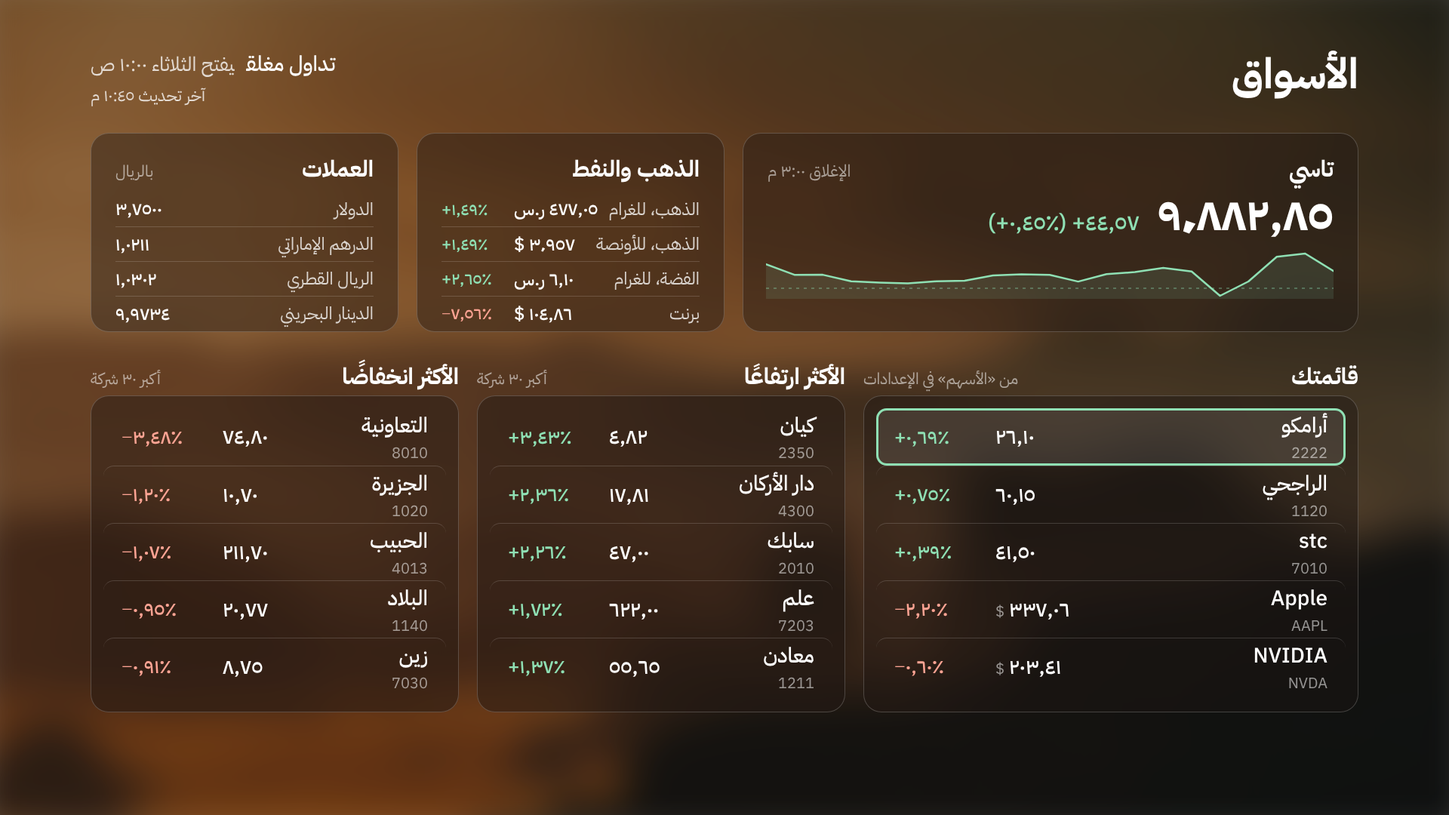
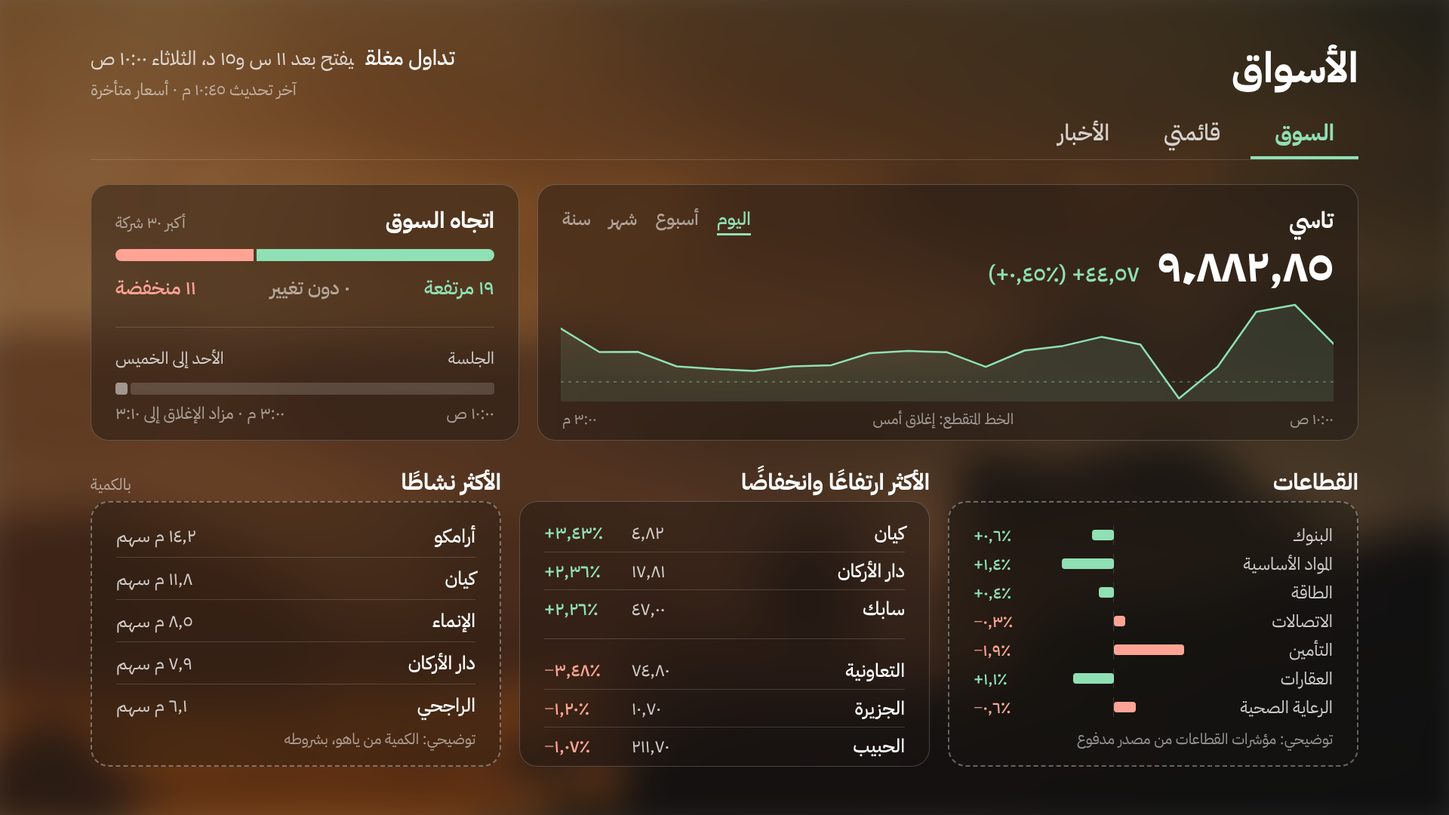
Proposals: markets page in three tabs (market, watchlist, news) with charts and the usual extras; what is free, cheap or paid

diff --git a/notes/proposals/proto.html b/notes/proposals/proto.html
@@ -451,5 +451,91 @@ const MKD=(T,light)=>{const q=MK['2222.SR'],c=chg(q);const lo=Math.min(...q.c),h
 S.mkdark=()=>MKP(false,0);
 S.mkdet=()=>MKP(false,1);
 S.mklight=()=>MKP(true,0);
+
+// ---- «الأسواق», three tabs (the owner: charts, news, the usual extras). Real numbers: data-markets of 2 Nov 2026.
+// A card drawn with a dashed border needs a source we do not have (paid, or not yet fetched); its numbers are illustrative.
+const MK2={"^TASI.SR": {"p": 9882.85, "v": 9838.28, "c": [9870.04, 9902.6104, 9896.7305, 9850.8398, 9824.29, 9869.4102, 9875.8496, 9868.2197, 9864.3896, 9850.6797, 9862.9697, 9864.0498, 9862.1797, 9852.1299, 9851.1602, 9847.3701, 9848.8496, 9851.1602, 9863.2598, 9863.1201, 9882.8496], "t": "2026-11-02T19:45:16+00:00"}, "2222.SR": {"p": 26.1, "v": 25.92, "c": [25.96, 25.96, 26.04, 25.98, 25.94, 25.94, 25.98, 26.0, 26.0, 26.0, 25.98, 26.0, 26.0, 26.02, 26.04, 26.08, 26.08, 26.04, 26.08, 26.06, 26.1], "t": "2026-11-02T19:45:16+00:00"}, "1120.SR": {"p": 60.15, "v": 59.7, "c": [59.85, 60.0, 60.05, 59.9, 59.85, 60.0, 60.05, 60.0, 60.0, 59.9, 60.05, 59.95, 60.0, 60.0, 60.0, 59.9, 59.9, 59.95, 59.9, 59.9, 60.15], "t": "2026-11-02T19:45:16+00:00"}, "1180.SR": {"p": 36.5, "v": 36.06, "c": [36.68, 36.78, 36.52, 36.14, 36.1, 36.32, 36.4, 36.28, 36.3, 36.1, 36.18, 36.2, 36.16, 36.12, 36.16, 36.1, 36.08, 36.14, 36.26, 36.32, 36.5], "t": "2026-11-02T19:45:16+00:00"}, "2010.SR": {"p": 47.0, "v": 45.96, "c": [46.78, 46.9, 46.96, 46.86, 46.78, 46.9, 46.86, 46.92, 46.84, 46.92, 46.92, 46.96, 46.98, 46.88, 46.82, 46.82, 46.86, 46.92, 46.96, 46.92, 47.0], "t": "2026-11-02T19:45:16+00:00"}, "7010.SR": {"p": 41.5, "v": 41.34, "c": [41.5, 41.54, 41.54, 41.5, 41.46, 41.48, 41.4, 41.36, 41.34, 41.32, 41.34, 41.4, 41.36, 41.4, 41.4, 41.4, 41.36, 41.4, 41.46, 41.44, 41.5], "t": "2026-11-02T19:45:16+00:00"}, "1211.SR": {"p": 55.65, "v": 54.9, "c": [54.8, 54.9, 54.8, 54.55, 54.55, 55.55, 55.95, 55.7, 55.85, 56.0, 55.95, 55.65, 55.5, 55.45, 55.6, 55.3, 55.25, 55.15, 55.45, 55.6, 55.65], "t": "2026-11-02T19:45:16+00:00"}, "2082.SR": {"p": 151.5, "v": 150.5, "c": [151.9, 152.1, 151.6, 150.6, 151.0, 152.0, 152.1, 151.7, 151.4, 151.6, 152.1, 153.0, 151.9, 151.0, 150.6, 150.9, 151.0, 151.1, 151.0, 151.1, 151.5], "t": "2026-11-02T19:45:16+00:00"}, "5110.SR": {"p": 14.91, "v": 14.98, "c": [15.09, 15.06, 15.06, 14.92, 14.88, 15.0, 14.97, 14.93, 14.85, 14.84, 14.87, 14.88, 14.9, 14.87, 14.89, 14.85, 14.88, 14.88, 14.88, 14.89, 14.91], "t": "2026-11-02T19:45:16+00:00"}, "1150.SR": {"p": 21.56, "v": 21.59, "c": [21.68, 21.63, 21.47, 21.37, 21.41, 21.5, 21.5, 21.53, 21.51, 21.43, 21.5, 21.5, 21.52, 21.51, 21.49, 21.46, 21.49, 21.49, 21.49, 21.49, 21.56], "t": "2026-11-02T19:45:16+00:00"}, "1060.SR": {"p": 31.64, "v": 31.56, "c": [31.74, 31.94, 31.62, 31.56, 31.4, 31.6, 31.6, 31.48, 31.62, 31.54, 31.6, 31.56, 31.56, 31.5, 31.5, 31.54, 31.64, 31.62, 31.6, 31.62, 31.64], "t": "2026-11-02T19:45:16+00:00"}, "1010.SR": {"p": 19.49, "v": 19.3, "c": [19.29, 19.36, 19.33, 19.22, 19.23, 19.38, 19.36, 19.36, 19.39, 19.34, 19.33, 19.32, 19.3, 19.3, 19.29, 19.29, 19.34, 19.38, 19.4, 19.33, 19.49], "t": "2026-11-02T19:45:16+00:00"}, "1050.SR": {"p": 19.36, "v": 19.2, "c": [19.23, 19.26, 19.26, 19.09, 18.99, 19.21, 19.24, 19.23, 19.28, 19.27, 19.28, 19.28, 19.3, 19.28, 19.27, 19.32, 19.34, 19.34, 19.4, 19.39, 19.36], "t": "2026-11-02T19:45:16+00:00"}, "1140.SR": {"p": 20.77, "v": 20.97, "c": [20.96, 21.0, 20.84, 20.75, 20.7, 20.85, 20.81, 20.73, 20.73, 20.67, 20.75, 20.68, 20.69, 20.68, 20.67, 20.68, 20.67, 20.68, 20.68, 20.7, 20.77], "t": "2026-11-02T19:45:16+00:00"}, "1020.SR": {"p": 10.7, "v": 10.83, "c": [10.78, 10.81, 10.8, 10.74, 10.71, 10.7, 10.72, 10.75, 10.7, 10.7, 10.7, 10.7, 10.7, 10.7, 10.7, 10.69, 10.69, 10.69, 10.7, 10.69, 10.7], "t": "2026-11-02T19:45:16+00:00"}, "1080.SR": {"p": 20.49, "v": 20.34, "c": [20.54, 20.65, 20.5, 20.38, 20.37, 20.42, 20.46, 20.47, 20.48, 20.39, 20.39, 20.43, 20.38, 20.36, 20.4, 20.38, 20.47, 20.45, 20.43, 20.43, 20.49], "t": "2026-11-02T19:45:16+00:00"}, "2280.SR": {"p": 41.74, "v": 42.0, "c": [41.5, 41.84, 42.02, 41.76, 41.64, 41.9, 41.84, 41.7, 41.7, 41.52, 41.52, 41.52, 41.46, 41.4, 41.36, 41.36, 41.44, 41.34, 41.58, 41.44, 41.74], "t": "2026-11-02T19:45:16+00:00"}, "2380.SR": {"p": 15.3, "v": 15.43, "c": [15.27, 15.28, 15.43, 15.37, 15.35, 15.48, 15.5, 15.49, 15.37, 15.36, 15.44, 15.46, 15.46, 15.41, 15.27, 15.22, 15.18, 15.28, 15.29, 15.26, 15.3], "t": "2026-11-02T19:45:16+00:00"}, "2310.SR": {"p": 11.58, "v": 11.44, "c": [11.45, 11.51, 11.55, 11.43, 11.46, 11.52, 11.47, 11.5, 11.49, 11.47, 11.48, 11.5, 11.55, 11.5, 11.49, 11.48, 11.49, 11.53, 11.57, 11.59, 11.58], "t": "2026-11-02T19:45:16+00:00"}, "2020.SR": {"p": 114.2, "v": 113.8, "c": [114.4, 115.0, 115.0, 114.4, 113.0, 113.7, 114.1, 113.8, 114.3, 114.0, 114.4, 113.9, 114.1, 113.9, 114.0, 114.1, 114.0, 114.3, 114.4, 114.4, 114.2], "t": "2026-11-02T19:45:16+00:00"}, "2290.SR": {"p": 31.56, "v": 31.5, "c": [31.6, 31.58, 31.7, 31.54, 31.34, 31.56, 31.48, 31.52, 31.44, 31.44, 31.42, 31.54, 31.46, 31.4, 31.3, 31.24, 31.44, 31.46, 31.5, 31.48, 31.56], "t": "2026-11-02T19:45:16+00:00"}, "2350.SR": {"p": 4.82, "v": 4.66, "c": [4.66, 4.74, 4.75, 4.74, 4.73, 4.72, 4.72, 4.72, 4.71, 4.71, 4.75, 4.74, 4.78, 4.77, 4.76, 4.76, 4.78, 4.81, 4.82, 4.82, 4.82], "t": "2026-11-02T19:45:16+00:00"}, "4013.SR": {"p": 211.7, "v": 214.0, "c": [213.9, 216.1, 215.2, 213.9, 211.2, 212.7, 213.0, 213.4, 213.0, 212.5, 213.0, 212.3, 212.4, 212.7, 212.4, 212.0, 212.0, 211.4, 211.2, 210.7, 211.7], "t": "2026-11-02T19:45:16+00:00"}, "4190.SR": {"p": 16.44, "v": 16.45, "c": [16.47, 16.56, 16.55, 16.48, 16.41, 16.53, 16.5, 16.44, 16.43, 16.41, 16.45, 16.47, 16.44, 16.41, 16.42, 16.42, 16.41, 16.42, 16.49, 16.44, 16.44], "t": "2026-11-02T19:45:16+00:00"}, "7020.SR": {"p": 56.25, "v": 55.5, "c": [56.2, 56.35, 56.4, 56.15, 55.85, 55.95, 55.95, 55.75, 55.9, 55.9, 56.0, 56.15, 56.1, 55.95, 55.8, 55.95, 56.1, 56.25, 56.4, 56.35, 56.25], "t": "2026-11-02T19:45:16+00:00"}, "7030.SR": {"p": 8.75, "v": 8.83, "c": [8.78, 8.82, 8.82, 8.78, 8.73, 8.76, 8.75, 8.72, 8.71, 8.69, 8.7, 8.73, 8.73, 8.68, 8.67, 8.69, 8.7, 8.7, 8.74, 8.73, 8.75], "t": "2026-11-02T19:45:16+00:00"}, "7203.SR": {"p": 622.0, "v": 611.5, "c": [622.0, 629.5, 618.0, 617.0, 614.5, 618.0, 619.0, 620.0, 621.0, 619.5, 619.0, 619.0, 618.0, 617.5, 618.0, 619.5, 619.0, 619.5, 620.0, 621.0, 622.0], "t": "2026-11-02T19:45:16+00:00"}, "4030.SR": {"p": 36.24, "v": 36.08, "c": [36.28, 36.3, 36.24, 36.2, 36.16, 36.24, 36.26, 36.42, 36.38, 36.26, 36.36, 36.34, 36.32, 36.24, 36.26, 36.22, 36.22, 36.26, 36.28, 36.26, 36.24], "t": "2026-11-02T19:45:16+00:00"}, "1810.SR": {"p": 16.76, "v": 16.8, "c": [16.85, 17.09, 17.13, 17.05, 17.08, 17.08, 16.99, 16.95, 16.82, 16.8, 16.8, 16.87, 16.86, 16.82, 16.81, 16.81, 16.8, 16.8, 16.82, 16.76, 16.76], "t": "2026-11-02T19:45:16+00:00"}, "8010.SR": {"p": 74.8, "v": 77.5, "c": [77.5, 78.15, 77.3, 76.3, 75.05, 75.35, 75.4, 75.25, 75.2, 74.95, 75.25, 75.5, 75.55, 75.4, 75.3, 75.0, 74.85, 75.1, 75.05, 75.2, 74.8], "t": "2026-11-02T19:45:16+00:00"}, "4300.SR": {"p": 17.81, "v": 17.4, "c": [17.92, 17.95, 17.95, 17.76, 17.63, 17.69, 17.7, 17.66, 17.66, 17.66, 17.73, 17.72, 17.75, 17.66, 17.72, 17.67, 17.53, 17.72, 17.76, 17.77, 17.81], "t": "2026-11-02T19:45:16+00:00"}, "AAPL": {"p": 337.055, "v": 344.63, "c": [341.24, 340.39, 340.42, 340.33, 341.56, 341.08, 340.5205, 341.19, 340.07, 339.18, 338.27, 337.29, 337.6401, 338.07, 337.555, 337.13, 336.2, 337.25, 337.04, 336.86, 337.08, 337.055], "t": "2026-11-02T19:45:16+00:00"}, "NVDA": {"p": 203.405, "v": 204.64, "c": [208.42, 207.9483, 208.68, 209.8099, 208.5, 207.26, 207.48, 206.9, 206.75, 207.02, 206.74, 206.61, 206.03, 206.535, 206.49, 206.565, 205.83, 205.47, 205.1417, 204.435, 203.39, 203.405], "t": "2026-11-02T19:45:16+00:00"}};
+const TADN={'2222':'أرامكو','1120':'الراجحي','1180':'الأهلي','2010':'سابك','7010':'stc','1211':'معادن','2082':'أكوا','5110':'كهرباء السعودية','1150':'الإنماء','1060':'ساب','1010':'بنك الرياض','1050':'السعودي الفرنسي','1140':'البلاد','1020':'الجزيرة','1080':'العربي','2280':'المراعي','2380':'بترورابغ','2310':'سبكيم','2020':'سافكو','2290':'ينساب','2350':'كيان','4013':'الحبيب','4190':'جرير','7020':'موبايلي','7030':'زين','7203':'علم','4030':'البحري','1810':'سيرا','8010':'التعاونية','4300':'دار الأركان'};
+const THEME=light=>light?{card:'background:#fff;border:1.5px solid var(--line)',dash:'background:#fff;border:2px dashed #CFC9BC',ink:'var(--ink)',sub:'var(--sub)',mute:'var(--mute)',up:'#1B8354',dn:'#B3261E',flat:'#9AA09C',line:'var(--line)',fo:'background:var(--tint);outline:3px solid var(--green);outline-offset:-3px',acc:'var(--green)'}
+ :{card:'background:rgba(28,22,18,.42);border:1px solid rgba(255,255,255,.2);backdrop-filter:blur(26px)',dash:'background:rgba(28,22,18,.3);border:2px dashed rgba(255,255,255,.35);backdrop-filter:blur(26px)',ink:'#fff',sub:'rgba(255,255,255,.78)',mute:'rgba(255,255,255,.55)',up:'#8FE0B4',dn:'#FFA494',flat:'rgba(255,255,255,.5)',line:'rgba(255,255,255,.16)',fo:'background:rgba(255,255,255,.1);outline:3px solid #8FE0B4;outline-offset:-3px',acc:'#8FE0B4'};
+const FRAME=(light,tab,T)=>`${light?'':`<div class="abs" style="inset:-40px;background:url(../../photos/-RlktmDy3Ec.jpg) center/cover;filter:blur(28px) saturate(1.1)"></div><div class="abs" style="inset:0;background:rgba(20,14,10,.46)"></div>`}
+ <div class="abs" style="right:120px;top:48px;font:56px TD;color:${T.ink}">الأسواق</div>
+ <div class="abs" style="left:120px;top:56px;text-align:left"><div style="font:28px TM;color:${T.ink}">تداول مغلق<span style="font:26px TR;color:${T.sub};margin-right:16px">يفتح بعد ١١ س و١٥ د، الثلاثاء ١٠:٠٠ ص</span></div><div style="font:22px TR;color:${T.mute};margin-top:4px">آخر تحديث ١٠:٤٥ م · أسعار متأخرة</div></div>
+ <div class="abs" style="right:120px;left:120px;top:140px;height:72px;display:flex;gap:8px;border-bottom:1.5px solid ${T.line}">
+  ${['السوق','قائمتي','الأخبار'].map((t,i)=>`<div style="padding:0 32px;display:flex;align-items:center;font:30px ${i==tab?'TD':'TM'};color:${i==tab?T.acc:T.sub};${i==tab?`box-shadow:inset 0 -4px 0 ${T.acc}`:''}">${t}</div>`).join('')}</div>`;
+const RT=(T,sel)=>`<div style="display:flex;gap:24px;font:24px TM">${['اليوم','أسبوع','شهر','سنة'].map((r,i)=>`<span style="color:${i==sel?T.acc:T.mute};${i==sel?`box-shadow:inset 0 -3px 0 ${T.acc};padding-bottom:4px`:''}">${r}</span>`).join('')}</div>`;
+const BOX=(T,st,dash)=>`position:absolute;${dash?T.dash:T.card};border-radius:24px;${st}`;
+const HDR=(T,a,b)=>`<div style="display:flex;justify-content:space-between;align-items:baseline;margin-bottom:8px"><span style="font:30px TD;color:${T.ink}">${a}</span>${b?`<span style="font:21px TR;color:${T.mute}">${b}</span>`:''}</div>`;
+const NOTE=(T,t)=>`<div style="position:absolute;right:32px;left:32px;bottom:20px;font:20px TR;color:${T.mute}">${t}</div>`;
+// tab 1: the market
+const TAB1=(light)=>{const T=THEME(light);const tasi=MK2['^TASI.SR'],tc=chg(tasi);const C=c=>c.up?T.up:T.dn;
+ const st=Object.entries(MK2).filter(([k])=>/^\d/.test(k)).map(([k,q])=>({c:k.slice(0,4),q,ch:chg(q)}));
+ const up=st.filter(x=>x.q.p>x.q.v).length,dn=st.filter(x=>x.q.p<x.q.v).length,fl=st.length-up-dn;
+ const srt=[...st].sort((a,b)=>b.ch.pc-a.ch.pc);
+ const mini=(x,first)=>`<div style="display:flex;align-items:center;gap:12px;height:50px;${first?'':`border-top:1px solid ${T.line}`}"><span style="flex:1;font:25px TM;color:${T.ink}">${TADN[x.c]}</span><span style="font:24px TR;color:${T.sub}">${NF(x.q.p,2)}</span><span style="width:104px;text-align:left;font:24px TM;color:${C(x.ch)}">${x.ch.t}</span></div>`;
+ const sectors=[['البنوك',0.6],['المواد الأساسية',1.4],['الطاقة',0.4],['الاتصالات',-0.3],['التأمين',-1.9],['العقارات',1.1],['الرعاية الصحية',-0.6]];
+ return `${FRAME(light,0,T)}
+ <div style="${BOX(T,'right:120px;width:1088px;top:244px;height:340px;padding:24px 32px')}">
+  <div style="display:flex;justify-content:space-between;align-items:center"><span style="font:30px TD;color:${T.ink}">تاسي</span>${RT(T,0)}</div>
+  <div style="display:flex;align-items:baseline;gap:24px"><span style="font:60px TD;line-height:1.3;color:${T.ink}">${NF(tasi.p,2)}</span><span style="font:30px TM;color:${C(tc)}">${tc.ta} (${tc.t})</span></div>
+  <div style="margin-top:8px">${spark(tasi.c,1024,132,C(tc),tasi.v,1)}</div>
+  <div style="display:flex;justify-content:space-between;font:20px TR;color:${T.mute};margin-top:8px"><span>١٠:٠٠ ص</span><span>الخط المتقطع: إغلاق أمس</span><span>٣:٠٠ م</span></div></div>
+ <div style="${BOX(T,'left:120px;width:568px;top:244px;height:340px;padding:24px 32px')}">
+  ${HDR(T,'اتجاه السوق','أكبر ٣٠ شركة')}
+  <div style="display:flex;height:16px;border-radius:8px;overflow:hidden;margin-top:16px;gap:4px"><div style="flex:${up};background:${T.up}"></div>${fl?`<div style="flex:${fl};background:${T.flat}"></div>`:''}<div style="flex:${dn};background:${T.dn}"></div></div>
+  <div style="display:flex;justify-content:space-between;margin-top:16px;font:26px TM"><span style="color:${T.up}">${NF(up,0)} مرتفعة</span><span style="color:${T.mute}">${NF(fl,0)} دون تغيير</span><span style="color:${T.dn}">${NF(dn,0)} منخفضة</span></div>
+  <div style="margin-top:32px;padding-top:24px;border-top:1px solid ${T.line}">
+   <div style="display:flex;justify-content:space-between;font:22px TR;color:${T.sub}"><span>الجلسة</span><span>الأحد إلى الخميس</span></div>
+   <div style="position:relative;height:16px;margin-top:16px;display:flex;gap:4px"><div style="flex:300;border-radius:4px;background:${T.line}"></div><div style="flex:10;border-radius:4px;background:${T.flat}"></div></div>
+   <div style="display:flex;justify-content:space-between;font:22px TR;color:${T.mute};margin-top:8px"><span>١٠:٠٠ ص</span><span>٣:٠٠ م · مزاد الإغلاق إلى ٣:١٠</span></div></div></div>
+ <div class="abs" style="right:120px;top:616px;font:30px TD;color:${T.ink}">القطاعات</div>
+ <div style="${BOX(T,'right:120px;width:544px;top:664px;height:352px;padding:24px 32px',1)}">
+  ${sectors.map(([n,v])=>`<div style="display:flex;align-items:center;gap:16px;height:38px"><span style="width:176px;font:23px TR;color:${T.sub}">${n}</span><div style="flex:1;position:relative;height:14px"><div style="position:absolute;${v>=0?'right:50%':'left:50%'};width:${Math.abs(v)/2*50}%;height:14px;border-radius:4px;background:${v>=0?T.up:T.dn}"></div><div style="position:absolute;right:50%;top:-6px;width:1.5px;height:26px;background:${T.line}"></div></div><span style="width:72px;text-align:left;font:22px TM;color:${v>=0?T.up:T.dn}"><bdi dir="ltr">${v>=0?'+':'−'}${NF(Math.abs(v),1)}٪</bdi></span></div>`).join('')}
+  ${NOTE(T,'توضيحي: مؤشرات القطاعات من مصدر مدفوع')}</div>
+ <div class="abs" style="right:688px;top:616px;font:30px TD;color:${T.ink}">الأكثر ارتفاعًا وانخفاضًا</div>
+ <div style="${BOX(T,'right:688px;width:544px;top:664px;height:352px;padding:16px 32px')}">${srt.slice(0,3).map((x,i)=>mini(x,i==0)).join('')}<div style="height:16px;border-bottom:1px solid ${T.line};margin-bottom:16px"></div>${srt.slice(-3).reverse().map((x,i)=>mini(x,i==0)).join('')}</div>
+ <div class="abs" style="left:120px;width:544px;top:616px;display:flex;justify-content:space-between;align-items:baseline"><span style="font:30px TD;color:${T.ink}">الأكثر نشاطًا</span><span style="font:21px TR;color:${T.mute}">بالكمية</span></div>
+ <div style="${BOX(T,'left:120px;width:544px;top:664px;height:352px;padding:16px 32px',1)}">${[['أرامكو','١٤٫٢ م'],['كيان','١١٫٨ م'],['الإنماء','٨٫٥ م'],['دار الأركان','٧٫٩ م'],['الراجحي','٦٫١ م']].map((r,i)=>`<div style="display:flex;align-items:center;height:56px;${i?`border-top:1px solid ${T.line}`:''}"><span style="flex:1;font:25px TM;color:${T.ink}">${r[0]}</span><span style="font:24px TR;color:${T.sub}">${r[1]} سهم</span></div>`).join('')}
+  ${NOTE(T,'توضيحي: الكمية من ياهو، بشروطه')}</div>`;};
+// tab 2: the watchlist, with a line per row, plus gold, oil and currencies
+const TAB2=(light,det)=>{const T=THEME(light);const C=c=>c.up?T.up:T.dn;
+ const W=[['أرامكو','2222','2222.SR',2,''],['الراجحي','1120','1120.SR',2,''],['stc','7010','7010.SR',2,''],['Apple','AAPL','AAPL',2,''],['NVIDIA','NVDA','NVDA',2,'']];
+ const g=MK['GC=F'],si=MK['SI=F'],bz=MK['BZ=F'],GR=3.75/31.1035;
+ return `${FRAME(light,1,T)}
+ <div style="${BOX(T,'right:120px;width:1088px;top:244px;height:772px;padding:16px')}">
+  <div style="display:flex;gap:24px;height:48px;align-items:center;padding:0 24px;font:21px TR;color:${T.mute}"><span style="flex:1">السهم</span><span style="width:200px">اليوم</span><span style="width:150px;text-align:left">السعر</span><span style="width:120px;text-align:left">التغيّر</span></div>
+  ${W.map((w,i)=>{const q=MK2[w[2]]||MK[w[2]],c=chg(q);return `<div style="display:flex;align-items:center;gap:24px;height:136px;padding:0 24px;border-radius:16px;${i==0&&!det?T.fo:`border-top:1px solid ${T.line}`}">
+   <div style="flex:1"><div style="font:32px TM;color:${T.ink}">${w[0]}</div><div style="font:22px TR;color:${T.mute}">${w[1]}${w[4]?`<span style="color:${T.sub};margin-right:16px">${w[4]}</span>`:''}</div></div>
+   <div style="width:200px">${spark(q.c,200,56,C(c),q.v,0)}</div>
+   <span style="width:150px;text-align:left;font:30px TM;color:${T.ink}">${NF(q.p,2)}</span><span style="width:120px;text-align:left;font:28px TM;color:${C(c)}">${c.t}</span></div>`}).join('')}</div>
+ <div style="${BOX(T,'left:120px;width:568px;top:244px;height:374px;padding:24px 32px')}">${HDR(T,'الذهب والنفط','')}
+  ${[['الذهب، للغرام',NF(g.p*GR,2)+' ر.س',chg(g),g],['الذهب، للأونصة',NF(g.p,0)+' $',chg(g),null],['الفضة، للغرام',NF(si.p*GR,2)+' ر.س',chg(si),si],['برنت',NF(bz.p,2)+' $',chg(bz),bz]].map((r,i)=>`<div style="display:flex;align-items:center;gap:16px;height:72px;${i?`border-top:1px solid ${T.line}`:''}"><span style="flex:1;font:25px TR;color:${T.sub}">${r[0]}</span>${r[3]?spark(r[3].c,96,32,C(r[2]),null,0):'<span style="width:96px"></span>'}<span style="font:26px TM;color:${T.ink}">${r[1]}</span><span style="width:92px;text-align:left;font:23px TM;color:${C(r[2])}">${r[2].t}</span></div>`).join('')}</div>
+ <div style="${BOX(T,'left:120px;width:568px;top:642px;height:374px;padding:24px 32px')}">${HDR(T,'العملات','بالريال')}
+  ${[['الدولار','٣٫٧٥٠٠','ربط ثابت'],['الدرهم الإماراتي','١٫٠٢١١','ربط ثابت'],['الريال القطري','١٫٠٣٠٢','ربط ثابت'],['الدينار البحريني','٩٫٩٧٣٤','ربط ثابت']].map((r,i)=>`<div style="display:flex;align-items:center;height:72px;${i?`border-top:1px solid ${T.line}`:''}"><div style="flex:1"><div style="font:25px TR;color:${T.sub}">${r[0]}</div><div style="font:19px TR;color:${T.mute}">${r[2]}</div></div><span style="font:26px TM;color:${T.ink}">${r[1]}</span></div>`).join('')}</div>
+ ${det?STOCK(T,light):''}`;};
+// tab 3: headlines, newest first, with the source and the time; OK opens the article on the phone (a QR), not on the TV
+const TAB3=(light)=>{const T=THEME(light);
+ const N=[['تداول','٣:٢٠ م','أرامكو السعودية تعلن نتائجها المالية للربع الثالث','2222'],['تداول','٢:٥٥ م','سابك تعلن توصية مجلس الإدارة بتوزيع أرباح نقدية','2010'],['واس','١:٤٠ م','الهيئة العامة للإحصاء: الرقم القياسي لأسعار المستهلك لشهر أكتوبر',''],['هيئة السوق المالية','١٢:١٠ م','الهيئة توافق على طرح أسهم شركة في السوق الموازية',''],['تداول','١١:٣٠ ص','الراجحي يعلن تاريخ أحقية الأرباح','1120'],['واس','١٠:٠٥ ص','وزارة الطاقة: تحديث أسعار المنتجات البترولية','']];
+ return `${FRAME(light,2,T)}
+ <div style="${BOX(T,'right:120px;width:360px;top:244px;height:432px;padding:16px 0')}">
+  ${[['الكل',''],['قائمتي','٢'],['إعلانات تداول','٣'],['هيئة السوق المالية','١'],['واس، الاقتصاد','٢']].map((l,i)=>`<div style="display:flex;justify-content:space-between;align-items:center;height:80px;padding:0 32px;${i==0?`color:${T.acc}`:`color:${T.ink}`}"><span style="font:27px ${i==0?'TD':'TM'}">${l[0]}</span><span style="font:23px TR;color:${T.mute}">${l[1]}</span></div>`).join('')}</div>
+ <div style="${BOX(T,'right:504px;left:120px;top:244px;height:772px;padding:16px',1)}">
+  ${N.map((n,i)=>`<div style="display:flex;gap:24px;align-items:center;height:122px;padding:0 24px;border-radius:16px;${i==0?T.fo:`border-top:1px solid ${T.line}`}">
+   <div style="flex:1"><div style="font:29px TM;color:${T.ink};line-height:1.35">${n[2]}</div><div style="font:22px TR;color:${T.mute};margin-top:6px">${n[0]} · ${n[1]}${n[3]?`<span style="color:${T.sub};margin-right:16px">${TADN[n[3]]} ${n[3]}</span>`:''}</div></div></div>`).join('')}</div>
+ <div class="abs" style="right:120px;width:360px;top:700px;font:22px TR;color:${T.mute};line-height:1.6">توضيحي: العناوين تحتاج إذنًا مكتوبًا من مصدرها. «اختيار» يعرض رمزًا تفتح به الخبر في موقعه بالجوال.</div>`;};
+// one stock: chart with ranges, the day's numbers, its dividend, and its own announcements
+const STOCK=(T,light)=>{const q=MK2['2222.SR'],c=chg(q);const lo=Math.min(...q.c),hi=Math.max(...q.c);
+ const cell=(a,b,dash)=>`<div style="flex:1;padding:16px 24px;border-radius:16px;${dash?`border:2px dashed ${light?'#CFC9BC':'rgba(255,255,255,.35)'}`:`border:1px solid ${T.line}`}"><div style="font:21px TR;color:${T.mute}">${a}</div><div style="font:28px TM;color:${T.ink};margin-top:4px">${b}</div></div>`;
+ return `<div class="abs" style="inset:0;background:${light?'rgba(246,244,239,.82)':'rgba(10,8,6,.58)'}"></div>
+ <div class="abs" style="right:240px;left:240px;top:64px;height:952px;border-radius:28px;padding:40px 56px;${light?'background:var(--paper);border:1.5px solid var(--line);box-shadow:0 30px 80px rgba(40,36,24,.18)':'background:rgba(36,28,22,.94);border:1px solid rgba(255,255,255,.2);box-shadow:0 30px 80px rgba(0,0,0,.4)'}">
+  <div style="display:flex;justify-content:space-between;align-items:baseline"><span style="font:44px TD;color:${T.ink}">أرامكو السعودية</span><span style="font:26px TR;color:${T.mute}">٢٢٢٢ · تداول · ر.س</span></div>
+  <div style="display:flex;align-items:baseline;justify-content:space-between;margin-top:8px"><div style="display:flex;align-items:baseline;gap:24px"><span style="font:76px TD;color:${T.ink}">${NF(q.p,2)}</span><span style="font:32px TM;color:${T.up}">${c.ta} (${c.t})</span></div>${RT(T,0)}</div>
+  <div style="margin-top:8px">${spark(q.c,1328,176,T.up,q.v,1)}</div>
+  <div style="display:flex;justify-content:space-between;font:20px TR;color:${T.mute};margin-top:8px"><span>١٠:٠٠ ص</span><span>الخط المتقطع: إغلاق أمس ${NF(q.v,2)}</span><span>٣:٠٠ م</span></div>
+  <div style="display:flex;gap:16px;margin-top:24px">${cell('الافتتاح',NF(q.c[0],2))}${cell('نطاق اليوم',NF(lo,2)+' – '+NF(hi,2))}${cell('نطاق ٥٢ أسبوعًا','٢٣٫٢٠ – ٢٨٫٩٠',1)}${cell('الكمية','١٤٫٢ مليون',1)}${cell('آخر توزيع','٠٫٣٣ ر.س',1)}</div>
+  <div style="display:flex;justify-content:space-between;align-items:baseline;margin-top:32px"><span style="font:30px TD;color:${T.ink}">إعلانات الشركة</span><span style="font:21px TR;color:${T.mute}">توضيحي: تحتاج إذنًا من تداول</span></div>
+  ${[['٣:٢٠ م، اليوم','أرامكو السعودية تعلن نتائجها المالية للربع الثالث'],['٢٨ أكتوبر','أرامكو السعودية تعلن موعد الإعلان عن نتائج الربع الثالث']].map((a,i)=>`<div style="display:flex;gap:24px;align-items:center;height:68px;${i?`border-top:1px solid ${T.line}`:''}"><span style="width:200px;font:22px TR;color:${T.mute}">${a[0]}</span><span style="flex:1;font:26px TM;color:${T.ink}">${a[1]}</span></div>`).join('')}
+  <div style="display:flex;gap:24px;margin-top:24px"><div class="btn fo" style="flex:1;${light?'':'background:rgba(255,255,255,.08);color:#fff;border-color:rgba(255,255,255,.3);outline-color:#8FE0B4'}">أزل من قائمتي</div><div class="btn" style="flex:1;${light?'':'background:rgba(255,255,255,.08);color:#fff;border-color:rgba(255,255,255,.3)'}">أظهره في شريط الأسواق</div></div></div>`;};
+S.m1=()=>TAB1(false);S.m1l=()=>TAB1(true);S.m2=()=>TAB2(false,0);S.m2d=()=>TAB2(false,1);S.m3=()=>TAB3(false);S.m3l=()=>TAB3(true);S.m2l=()=>TAB2(true,0);
 document.getElementById('f').innerHTML=S[(location.hash||'#football').slice(1)]();
 </script></body></html>

diff --git a/docs/PROPOSALS-NOV2.md b/docs/PROPOSALS-NOV2.md
@@ -348,63 +348,103 @@ needs one new optional field, `due`, and an exact alarm. Old lists and `saver.sh
 
 ## 6. The «الأسواق» page
 
-It opens with OK on the markets card or widget, and from Settings › المزيد › المباريات والأسواق. Like the matches page,
-it is a screen of its own.
+It opens with OK on the markets card or widget, and from Settings › المزيد › المباريات والأسواق. A screen of its own,
+with three tabs so each stays readable from the couch: **السوق**, **قائمتي** and **الأخبار**.
 
-**Mockups:**
-- `notes/proposals/markets-page.png`: the dark look, glass over the home photo blurred once.
-- `notes/proposals/markets-page-light.png`: the light look.
-- `notes/proposals/markets-page-detail.png`: OK on a stock.
+**Mockups** (all in `notes/proposals/`):
+- `markets-page.png`: the «السوق» tab, dark glass over the home photo blurred once.
+- `markets-page-light.png`: the same tab on the light look.
+- `markets-page-watchlist.png`: the «قائمتي» tab.
+- `markets-page-news.png`: the «الأخبار» tab.
+- `markets-page-detail.png`: OK on a stock.
 
-**What the page shows:**
-- **Top:** the market's state and the last update. TASI with the change in points and %, and today's line against
-  yesterday's close (dashed). Gold per gram in riyals and per ounce in dollars, silver per gram, and Brent. The currencies
-  against the riyal.
-- **Below:**
-  - «قائمتك»: the stocks from Settings › الأسهم, Saudi codes and US tickers.
-  - «الأكثر ارتفاعًا» and «الأكثر انخفاضًا».
-  - Up is green and down is red, in the Saudi convention.
-- **The detail card:** name, code, price, the change, today's line every 15 minutes against yesterday's close, the day's
-  range and the 52-week range with a marker, and «أزل من قائمتك» / «أظهره في شريط الأسواق».
-- **No prayer line:** Tadawul trades from 10:00 to 15:00 straight through Dhuhr. A prayer line would add nothing, so it
-  is left out.
+**How to read the mockups:**
+- A card or cell with a **dashed border** needs a source we do not have: one that is paid, needs permission, or is not
+  fetched yet. Its numbers or headlines are illustrative.
+- On the TV, such a card is **not shown** until its source exists. Everything with a solid border uses data we already
+  have, or public facts.
+- The prices, changes and lines are the real `data-markets/markets.json` of 2 November 2026, after the close.
 
-**The numbers in the PNGs:**
-- **Real:** the prices, changes and lines come from the real `data-markets/markets.json` of 2 November 2026 (after the
-  close).
-- **Fixed pegs, not fetched:** the currencies — 3.75 SAR to the dollar, and the AED, QAR and BHD pegs to the dollar.
-- **Illustrative:** only the 52-week range of Aramco, because it is not in our data yet.
+**Header, on every tab:**
+- the market's state with a countdown («تداول مغلق · يفتح بعد ١١ س و١٥ د، الثلاثاء ١٠:٠٠ ص»);
+- the last update, with «أسعار متأخرة».
 
-### What our data has, and what it does not
+Tadawul's hours are public facts: continuous trading 10:00–15:00, Sunday to Thursday, then the closing auction to 15:10.
+Ramadan hours differ and come from Tadawul's yearly notice.
 
-**We have today** (`.github/tools/market_prices.py`, CI, every few minutes while a market is open, into the `data-markets` branch):
-- **Fields:** for each symbol, the price, the close before and the day's 15-minute closes (up to 30).
-- **Symbols:**
-  - TASI, the 30 largest Tadawul companies (`TADAWUL`), the S&P 500 and about 50 common US tickers;
-  - gold, silver and Brent (futures), bitcoin and XRP;
-  - any other code the person adds, which the page asks for itself.
-- **Already shown:** the day's change in % or in amount for each row; that setting already exists.
-- **Market state:** open or closed comes from the clock (`due()` already knows Tadawul's hours).
+**«السوق»:**
+- **TASI:** value, change in points and %, and a large intraday line against yesterday's close. Range tabs
+  اليوم / أسبوع / شهر / سنة; «اليوم» is what we have today.
+- **«اتجاه السوق»:** rising, unchanged and falling as a bar with counts, plus the session bar. The counts are computed
+  from the 30 companies we fetch, and say so: 19 up and 11 down on 2 November.
+- **«القطاعات»** (dashed):
+  - Tadawul's sector indices have no free source: no Yahoo symbol was found, and Investing and TradingView do not allow
+    reuse.
+  - It needs Saudi Exchange's paid market data.
+- **«الأكثر ارتفاعًا وانخفاضًا»:** the top 3 and bottom 3 of the 30 (real).
+- **«الأكثر نشاطًا»** (dashed): the volume field (`regularMarketVolume`) is in the Yahoo answer we already get, so it
+  costs no request. It covers only the 30 companies, under Yahoo's terms (below).
+- **Turnover in riyals:** no free source, so it is not shown at all.
 
-**Missing but cheap, from the same answer:** Yahoo's chart answer already carries `regularMarketDayHigh`/`Low` and
-`fiftyTwoWeekHigh`/`Low` in its `meta`. `market_prices.py` would keep four more fields, with no new request. This was
-not checked live: the dev container cannot reach Yahoo.
+**«قائمتي»:**
+- Each watched stock: name, code, its own day line (a sparkline), price and change.
+- Gold (per gram and per ounce), silver and Brent, each with a sparkline.
+- **Currencies:** only fixed pegs against the riyal (dollar, dirham, Qatari riyal, Bahraini dinar), which need no source.
+  The euro and others would come once a day from the ECB's free reference rates, worked out through the dollar.
+- **Dividend dates are left out:**
+  - Argaam's dividend pages need written permission.
+  - The exchange's financial calendar has no feed and no reuse permission.
 
-**Missing, needs work:**
-- **Gainers and losers of the whole market:** today we have only the 30 largest companies, so the page says
-  «أكبر ٣٠ شركة». Covering all of Tadawul (about 250 symbols) would add about 220 requests a run. Ranking the 30 is honest
-  and enough.
-- **Currencies:** we fetch none today.
-  - The Gulf currencies and the dollar are fixed pegs: they need no source and never change.
-  - The euro, the pound and others come from the ECB's daily reference rates, which are free, official and allowed for
-    reuse. They are in euros, so CI works out each against the riyal through the dollar (×3.75). They are daily, not
-    live, and the page says «سعر اليوم».
-- **A longer chart (a month, a year):** one more request per watched symbol (`range=1y&interval=1d`). It is possible,
-  but it is not in the mockup.
+**«الأخبار»** (dashed):
+- **The design:** headlines only, newest first, with the source and the time. A side list filters: الكل، قائمتي، إعلانات
+  تداول، هيئة السوق المالية، واس. OK shows a QR to read the item on the phone, on its own site; the TV never shows
+  article text.
+- **The sources, none usable today:**
+  - **Argaam:** its terms require prior written authorisation, and no RSS was found.
+  - **Saudi Exchange announcements:** no feed was found, and the site says Tadawul owns the content.
+  - **Mubasher:** no RSS terms were found.
+  - **CMA:** announcements by email only.
+  - **SPA:** no RSS URL or reuse terms were found for news. Its photo platform is CC BY-SA, which does not prove the news
+    is.
+- **So the tab stays off until a source agrees in writing.** The step is an email to SPA and to Saudi Exchange
+  (csc@saudiexchange.sa) asking whether a headline plus a link may be shown.
 
-**Not available, and not shown:** live tick-by-tick prices, order books, volumes by trader and company news. These are
-Tadawul's paid data products.
+**The stock card** (OK on any stock):
+- name, code, price, the change, and a large chart with the same range tabs;
+- the day's open and range (real, from the 15-minute closes);
+- the 52-week range, volume and last dividend (dashed: the first two are in Yahoo's answer but not kept yet; dividends
+  have no free source);
+- the company's own announcements (dashed: needs Tadawul's permission);
+- «أزل من قائمتي» and «أظهره في شريط الأسواق».
 
-**The source's terms:** prices come from Yahoo's chart endpoint, as they do today. It is undocumented and Yahoo's terms
-cover personal use. This is a risk already accepted in the code; the page adds no new source except the ECB. If it has
-to be replaced, Saudi Exchange sells delayed data feeds, and no free official API exists.
+There is no prayer line, because Tadawul trades straight through Dhuhr.
+
+### Data: what we have, what is cheap, what is paid
+
+**Yahoo already gives us** (`.github/tools/market_prices.py` in CI, `data-markets`):
+- price, previous close and the 15-minute closes;
+- for TASI, the 30 largest companies, the S&P 500, about 50 US tickers, gold, silver, Brent, bitcoin and XRP.
+
+**Cheap: the same answer, kept fields.** Day high and low, 52-week high and low, and volume, from `meta`. These were not
+verified live, because Yahoo is blocked here.
+
+**Cheap: one more request per symbol.** Week, month and year charts (`range=1y&interval=1d`), only for TASI and the
+watched stocks.
+
+**Free, other source:**
+- ECB daily reference rates for the euro, the pound and others.
+- Tadawul's hours (public facts).
+
+**Paid or needs permission, not shown:**
+- sector indices;
+- breadth and turnover of the whole market;
+- most active across the whole market;
+- dividend calendars;
+- Argaam headlines;
+- Tadawul announcements;
+- live ticks and order books.
+
+**Yahoo's terms are a real risk, already in the code today:** the licence is personal and revocable, and it forbids using
+the data to build a data feed. Our CI file served to every TV looks like that. The page adds no new Yahoo use beyond a few
+more fields. For a public release, the clean route is a licensed delayed feed from Saudi Exchange. That is the owner's
+call.
